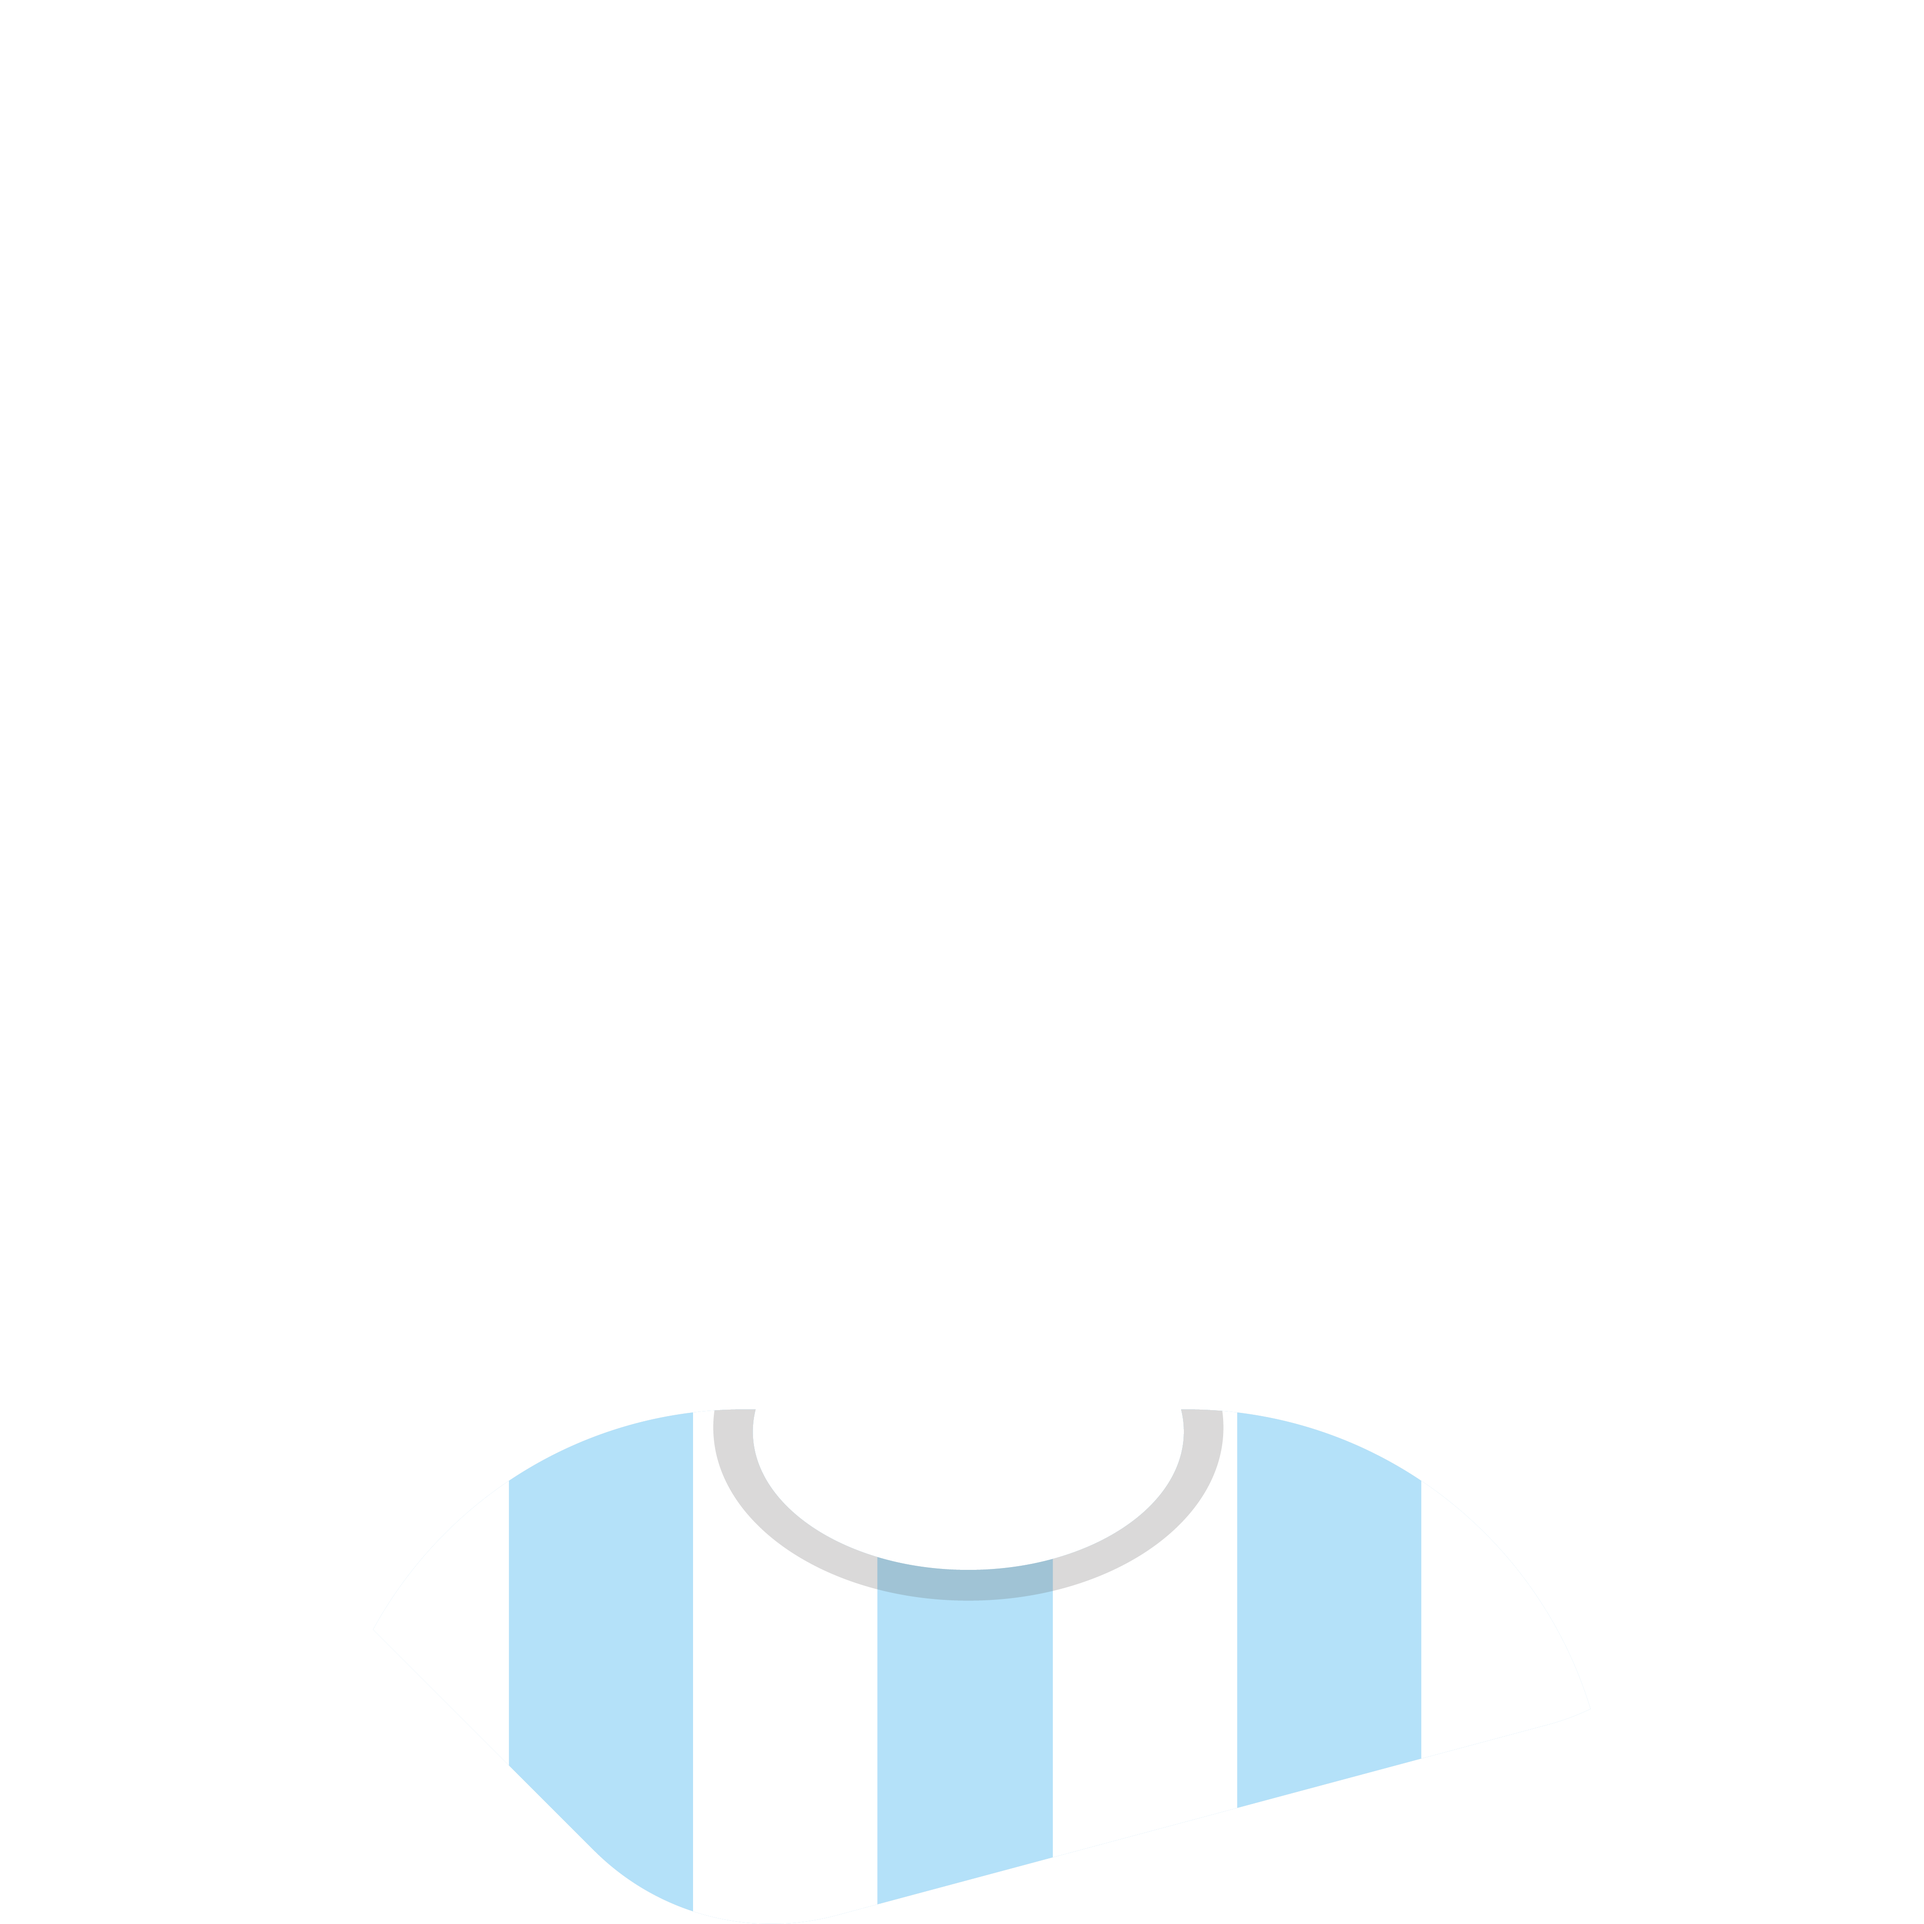
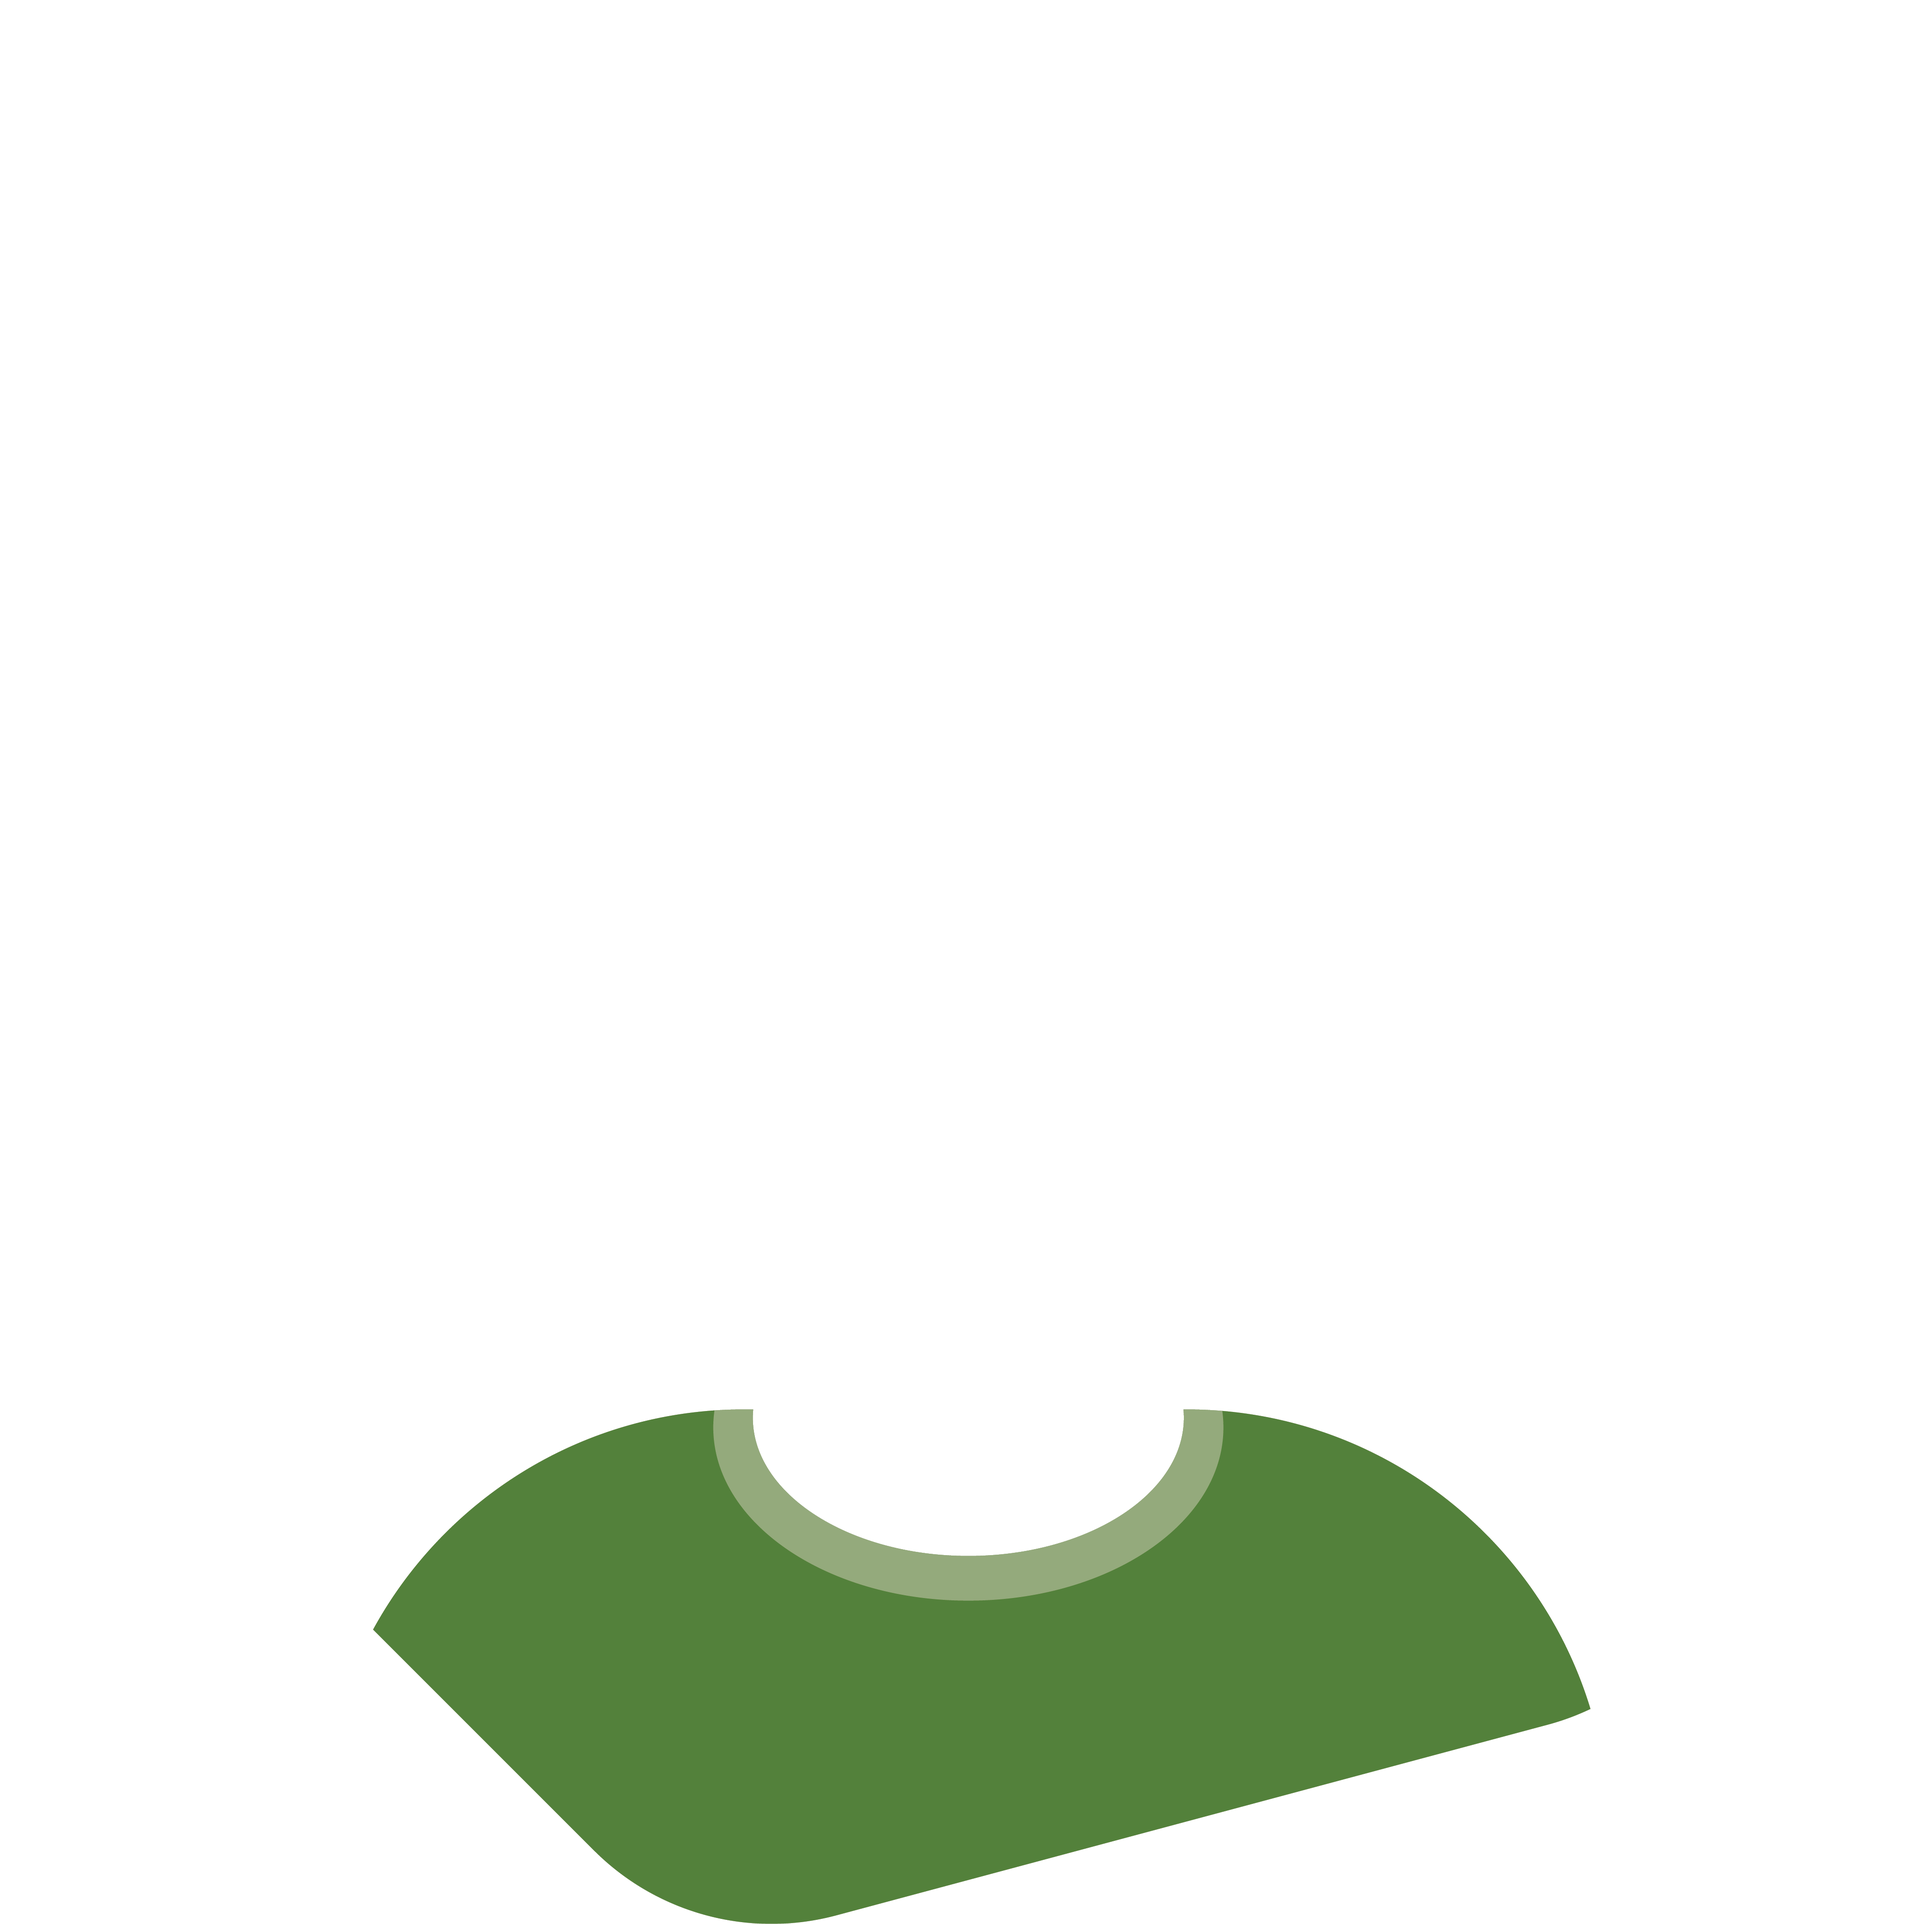
Saudi Arabia 1000 done

Changed region(s): [[0.1872, 0.7175, 0.8423, 1.0]]

diff --git a/src/config.js b/src/config.js
@@ -5,17 +5,17 @@ const { NETWORK } = require(`${basePath}/constants/network.js`);
 const network = NETWORK.eth; // change to .sol if use solana
 
 // General metadata for Ethereum
-const namePrefix = "BSport - Argentina";
+const namePrefix = "BSport - Saudi Arabia";
 const description =
   "BasementSports is a collection of 32,000 unique BSport NFTs - living on the Polygon Blockchain.";
 const baseUri = "######";
 
 // If you have selected Solana then the collection starts from 0 automatically
 
-const JERSY_NUMBERS_FOR_20_EACH = [7, 10, 11, 12, 20];
-const JERSY_NUMBERS_FOR_30_EACH = [1, 2, 3, 4, 5, 6, 8, 9, 13, 14];
+const JERSY_NUMBERS_FOR_20_EACH = [10, 11, 13, 18, 23];
+const JERSY_NUMBERS_FOR_30_EACH = [1, 2, 3, 4, 5, 6, 7, 8, 9, 12];
 const JERSY_NUMBERS_FOR_40_EACH = [
-  15, 16, 17, 18, 19, 21, 22, 23, 24, 25, 26, 27, 28, 29, 30,
+  14, 15, 16, 17, 19, 20, 21, 22, 24, 25, 26, 27, 28, 29, 30,
 ];
 
 const layerConfigurations = [
